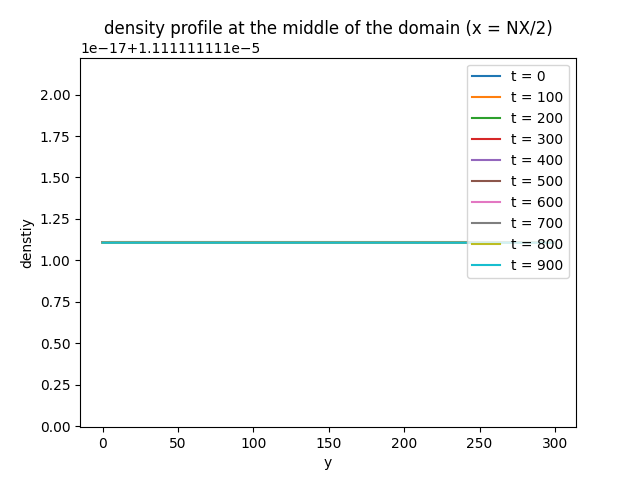
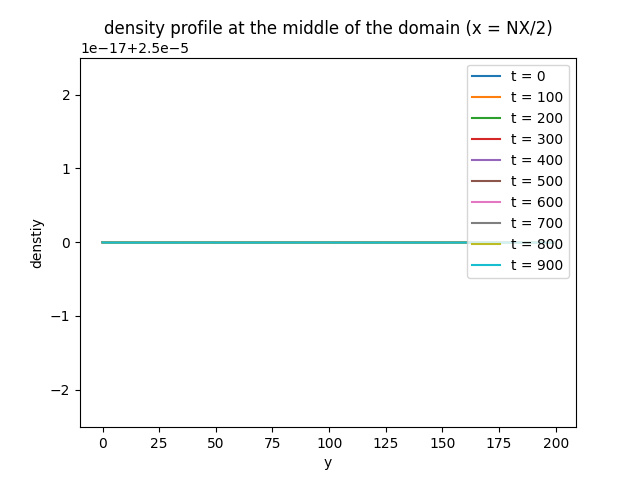
corrected mistake for poiseuille case

diff --git a/hpc_fluid_dynamics/lbm_class.py b/hpc_fluid_dynamics/lbm_class.py
@@ -156,7 +156,7 @@ class LBM:
             equilibrium_pdf_9xy = calc_equilibrium_pdf(density_xy, local_avg_velocity_xy2)
             
             # pressure conditions of left and right walls
-            if self.is_boundary["left"] or self.is_boundary["right"]:
+            if self.mode == "poiseuille" and (self.is_boundary["left"] or self.is_boundary["right"]):
                     density_in_x_y = np.ones((self.NX, self.NY))*self.density_in
                     density_out_x_y = np.ones((self.NX, self.NY))*self.density_out
 
